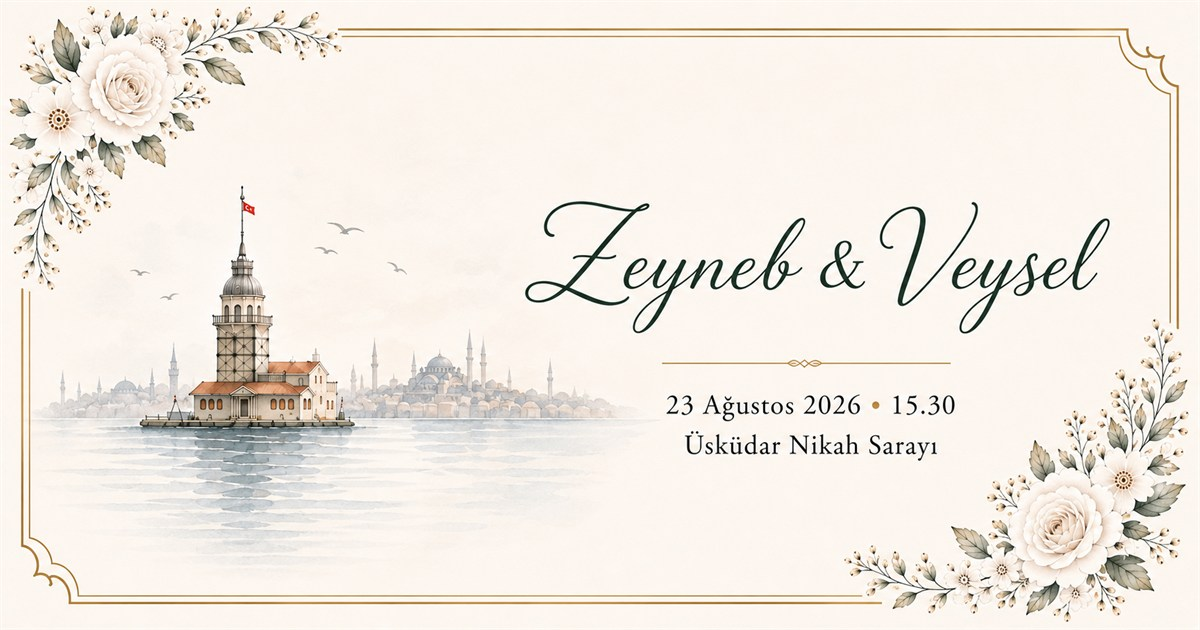
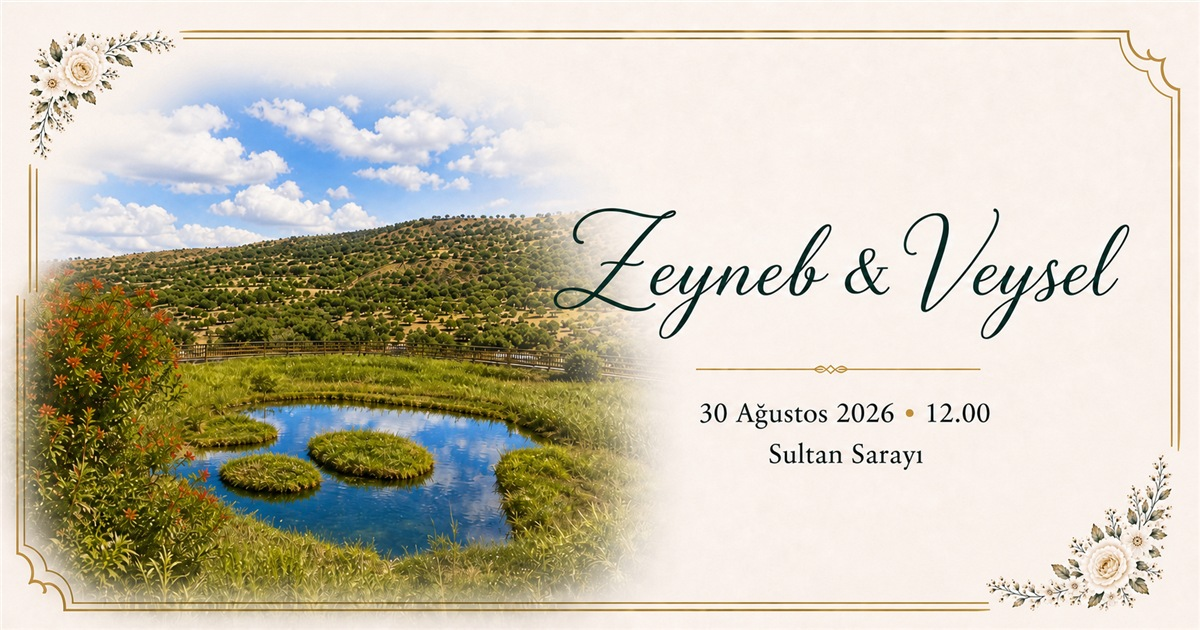
Yüzen Ada davetiyesini güncelle

diff --git a/index.html b/index.html
@@ -12,17 +12,17 @@
   <meta property="og:type" content="website">
 
   <meta property="og:url"
-        content="https://nikah.zeyneb.veyselbayramoglu.com.tr/">
+        content="https://davetiye.veyselbayramoglu.com.tr/">
 
   <meta property="og:image"
-        content="https://nikah.zeyneb.veyselbayramoglu.com.tr/assets/preview.jpg">
+        content="https://davetiye.veyselbayramoglu.com.tr/assets/preview.jpg">
 
   <meta property="og:image:width" content="1200">
   <meta property="og:image:height" content="630">
 
   <meta name="twitter:card" content="summary_large_image">
   <meta name="twitter:image"
-        content="https://nikah.zeyneb.veyselbayramoglu.com.tr/assets/preview.jpg">
+        content="https://davetiye.veyselbayramoglu.com.tr/assets/preview.jpg">
 
   <link rel="preconnect" href="https://fonts.googleapis.com">
   <link rel="preconnect" href="https://fonts.gstatic.com" crossorigin>
@@ -70,10 +70,10 @@
 
     <section class="page reveal" aria-labelledby="ceremonyTitle">
       <article class="invitation-content ceremony-content">
-        <h2 id="ceremonyTitle" class="section-title">Nikâh Töreni</h2>
+        <h2 id="ceremonyTitle" class="section-title">Düğün</h2>
         <div class="ornament" aria-hidden="true"><span></span>◆<span></span></div>
         <div class="countdown" id="weddingCountdown"
-             role="timer" aria-label="Nikâh törenine kalan süre">
+             role="timer" aria-label="Düğüne kalan süre">
           <div><strong id="countdownDays">0</strong><span>Gün</span></div>
           <div><strong id="countdownHours">0</strong><span>Saat</span></div>
           <div><strong id="countdownMinutes">0</strong><span>Dakika</span></div>
@@ -89,7 +89,7 @@
                 <path d="M15 26h.1M24 26h.1M33 26h.1M15 34h.1M24 34h.1M33 34h.1"></path>
               </svg>
             </dt>
-            <dd><time datetime="2026-08-23">23 Ağustos 2026<br>Pazar</time></dd>
+            <dd><time datetime="2026-08-30">30 Ağustos 2026<br>Pazar</time></dd>
           </div>
           <div>
             <dt>
@@ -99,7 +99,7 @@
                 <path d="M24 13v12l8 5"></path>
               </svg>
             </dt>
-            <dd><time datetime="15:30">15:30</time></dd>
+            <dd><time datetime="12:00">12:00</time></dd>
           </div>
           <div>
             <dt>
@@ -109,35 +109,18 @@
                 <circle cx="24" cy="17" r="5"></circle>
               </svg>
             </dt>
-            <dd>Üsküdar Nikah Sarayı<br><small>Mimar Sinan, Çavuşdere Cd.<br>No: 35, Üsküdar/İstanbul</small></dd>
+            <dd>Sultan Sarayı Düğün Salonu<br><small>Aşağı Çarşı / Bingöl</small></dd>
           </div>
         </dl>
         <div class="content-actions">
-          <button class="gold-button compact" id="locationShortcut"
-                  type="button" aria-controls="location">Konuma Git</button>
-          <button class="ghost-button compact" id="calendarButton" type="button">Takvime Ekle</button>
+          <a class="gold-button compact" id="locationShortcut"
+             target="_blank" rel="noopener noreferrer"
+             href="https://www.google.com/maps/search/?api=1&amp;query=Sultan+Saray%C4%B1%2C+%C4%B0n%C3%B6n%C3%BC+Mahallesi%2C+Eski+Saray+Caddesi+No%3A61%2C+Merkez%2FBing%C3%B6l">
+            Konuma Git
+          </a>
+          <button class="ghost-button compact" id="photosShortcut"
+                  type="button" aria-controls="photos">Anıları Paylaş</button>
         </div>
-      </article>
-    </section>
-
-    <section id="location" class="page reveal" aria-labelledby="locationTitle">
-      <article class="invitation-content location-content">
-        <h2 id="locationTitle" class="section-title">Konum</h2>
-        <div class="ornament" aria-hidden="true"><span></span>◆<span></span></div>
-        <svg class="location-pin" viewBox="0 0 48 48" aria-hidden="true">
-          <path d="M24 44s15-14 15-27A15 15 0 0 0 9 17c0 13 15 27 15 27Z"></path>
-          <circle cx="24" cy="17" r="5"></circle>
-        </svg>
-        <address>
-          <strong>Üsküdar Nikah Sarayı</strong>
-          Mimar Sinan, Çavuşdere Cd. No: 35<br>
-          Üsküdar / İstanbul
-        </address>
-        <a class="gold-button route-button" target="_blank" rel="noopener"
-           href="https://www.google.com/maps/search/?api=1&query=%C3%9Csk%C3%BCdar+Nikah+Saray%C4%B1%2C+Mimar+Sinan%2C+%C3%87avu%C5%9Fdere+Cd.+No%3A35%2C+%C3%9Csk%C3%BCdar%2F%C4%B0stanbul">
-          Yol Tarifi
-        </a>
-        <p class="closing-names">Zeyneb <span>&amp;</span> Veysel</p>
       </article>
     </section>
 

diff --git a/style.css b/style.css
@@ -14,7 +14,7 @@
 *{box-sizing:border-box}
 html{
   scroll-behavior:smooth;
-  scrollbar-gutter:stable;
+  scrollbar-gutter:auto;
   width:100%;
   height:100%;
   overflow:hidden;
@@ -41,11 +41,17 @@ main{
   overflow-x:hidden;
   overflow-y:auto;
   overscroll-behavior-y:contain;
-  scrollbar-gutter:stable;
+  scrollbar-gutter:auto;
   scroll-behavior:smooth;
   scroll-snap-type:y mandatory;
   touch-action:pan-y;
   -webkit-overflow-scrolling:touch;
+}
+main{
+  scrollbar-width:none;
+}
+main::-webkit-scrollbar{
+  display:none;
 }
 
 .ambient{
@@ -97,9 +103,9 @@ main{
 .opening.finished{pointer-events:none}
 .opening-card{
   position:relative;
-  width:min(96vw,460px,calc((100svh - var(--open-pad-y)) * 1150 / 1368));
+  width:min(96vw,460px,calc((100svh - var(--open-pad-y)) * 1052 / 1495));
   max-width:100%;
-  aspect-ratio:1150/1368;
+  aspect-ratio:1052/1495;
   perspective:1400px;
   filter:drop-shadow(0 24px 30px rgba(63,43,22,.23));
 }
@@ -116,14 +122,14 @@ main{
 .door-left{
   left:0;
   transform-origin:left center;
-  background-image:url("assets/cover-left-v2.jpg");
+  background-image:url("assets/cover-left-yuzenada-a-final.png");
   background-position:left center;
   border-radius:31px 0 0 31px;
 }
 .door-right{
   right:0;
   transform-origin:right center;
-  background-image:url("assets/cover-right-v2.jpg");
+  background-image:url("assets/cover-right-yuzenada-a-final.png");
   background-position:right center;
   border-radius:0 31px 31px 0;
 }
@@ -565,7 +571,7 @@ main::before{
   height:100svh;
   z-index:0;
   background-color:#fbf7f1;
-  background-image:url("assets/invitation-background-v2.jpg");
+  background-image:url("assets/invitation-background-yuzenada-a-final.png");
   background-position:center;
   background-repeat:no-repeat;
   background-size:contain;
@@ -594,12 +600,24 @@ main::before{
   width:min(88vw,560px);
   margin:auto;
   padding:clamp(24px,5vw,42px);
-  border:0;
-  border-radius:0;
-  color:var(--ink);
+  border:1px solid rgba(180,122,31,.28);
+  border-radius:30px;
+  color:#0d342f;
   text-align:center;
-  background:transparent;
-  box-shadow:none;
+  background:linear-gradient(
+    180deg,
+    rgba(251,247,241,.60),
+    rgba(251,247,241,.44)
+  );
+  box-shadow:
+    0 14px 34px rgba(45,58,39,.11),
+    inset 0 1px rgba(255,255,255,.58);
+  -webkit-backdrop-filter:blur(2.5px);
+  backdrop-filter:blur(2.5px);
+  text-shadow:
+    0 1px 0 rgba(255,255,255,.94),
+    0 0 8px rgba(251,247,241,.82),
+    0 0 18px rgba(251,247,241,.62);
   transition:
     opacity 1.4s ease,
     transform 1.75s cubic-bezier(.2,.72,.2,1);
@@ -799,7 +817,17 @@ main::before{
   margin:28px 0 0;
   font:clamp(36px,9vw,56px)/1 "Great Vibes",cursive;
 }
-.closing-names span{color:var(--gold)}
+.closing-names span{
+  color:var(--gold);
+  font-family:Georgia,"Times New Roman",serif;
+  font-size:.72em;
+  font-style:normal;
+  font-weight:400;
+}
+.intro-content,
+.families-content{
+  width:min(76vw,500px);
+}
 .photo-content{--content-scale:.9}
 .photo-icon{
   display:block;

diff --git a/script.js b/script.js
@@ -107,7 +107,7 @@ const observer = new IntersectionObserver((entries) => {
 },{threshold:.22});
 document.querySelectorAll(".reveal").forEach(el => observer.observe(el));
 
-const weddingDate = new Date("2026-08-23T15:30:00+03:00");
+const weddingDate = new Date("2026-08-30T12:00:00+03:00");
 const countdownParts = {
   days: document.getElementById("countdownDays"),
   hours: document.getElementById("countdownHours"),
@@ -193,12 +193,12 @@ pages.forEach((page, index) => {
   });
 });
 
-const locationShortcut = document.getElementById("locationShortcut");
-const locationPage = document.getElementById("location");
+const photosShortcut = document.getElementById("photosShortcut");
+const photosPage = document.getElementById("photos");
 
-locationShortcut.addEventListener("click", event => {
+photosShortcut.addEventListener("click", event => {
   event.preventDefault();
-  scrollToPage(locationPage);
+  scrollToPage(photosPage);
 });
 
 document.querySelectorAll('a[target="_blank"]').forEach(link => {
@@ -217,34 +217,3 @@ for(let i=0;i<18;i++){
   p.style.transform = `scale(${.7+Math.random()*.8})`;
   ambient.appendChild(p);
 }
-
-document.getElementById("calendarButton").addEventListener("click", () => {
-  const ics = [
-    "BEGIN:VCALENDAR",
-    "VERSION:2.0",
-    "PRODID:-//Zeyneb ve Veysel//Nikah Davetiyesi//TR",
-    "CALSCALE:GREGORIAN",
-    "METHOD:PUBLISH",
-    "X-WR-CALNAME:Zeyneb & Veysel Nikâh Töreni",
-    "BEGIN:VEVENT",
-    "UID:zeyneb-veysel-20260823@example.com",
-    "DTSTAMP:20260724T090000Z",
-    "DTSTART:20260823T123000Z",
-    "DTEND:20260823T143000Z",
-    "SUMMARY:Zeyneb & Veysel Nikâh Töreni",
-    "LOCATION:Üsküdar Nikah Sarayı\\, Mimar Sinan\\, Çavuşdere Cd. No:35\\, Üsküdar/İstanbul",
-    "DESCRIPTION:Gülümsememize şahit olun.",
-    "END:VEVENT",
-    "END:VCALENDAR"
-  ].join("\r\n");
-  const blob = new Blob([ics], {type:"text/calendar;charset=utf-8"});
-  const url = URL.createObjectURL(blob);
-  const a = document.createElement("a");
-  a.href = url;
-  a.download = "zeyneb-ve-veysel-nikah.ics";
-  document.body.appendChild(a);
-  a.click();
-  a.remove();
-  URL.revokeObjectURL(url);
-  showToast("Takvim dosyası hazırlandı");
-});
